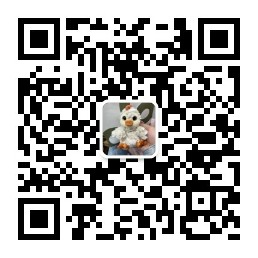
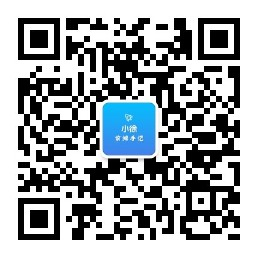
feat:qr

Changed region(s): [[0.3721, 0.3721, 0.6202, 0.6202]]

diff --git a/.vitepress/theme/components/SideSponsors.vue b/.vitepress/theme/components/SideSponsors.vue
@@ -7,7 +7,7 @@
     <div style="display: flex;justify-content: center;">
       <img style="border: 1px solid #e2e2e3;border-radius: 8px;" src="/payment/IMG_5471.jpeg"/>
     </div>
-    <div style="display: flex;justify-content:center;margin-top: 40px; margin-bottom: 20px;color:#d4380d">关注微信公众号[前端小怪物]</div>
+    <div style="display: flex;justify-content:center;margin-top: 40px; margin-bottom: 20px;color:#d4380d">关注微信公众号【小徐前端手记】</div>
     <div style="display: flex;justify-content: center;">
       <img style="border: 1px solid #e2e2e3;border-radius: 8px;" src="/wx_qr.jpg"/>
     </div>
